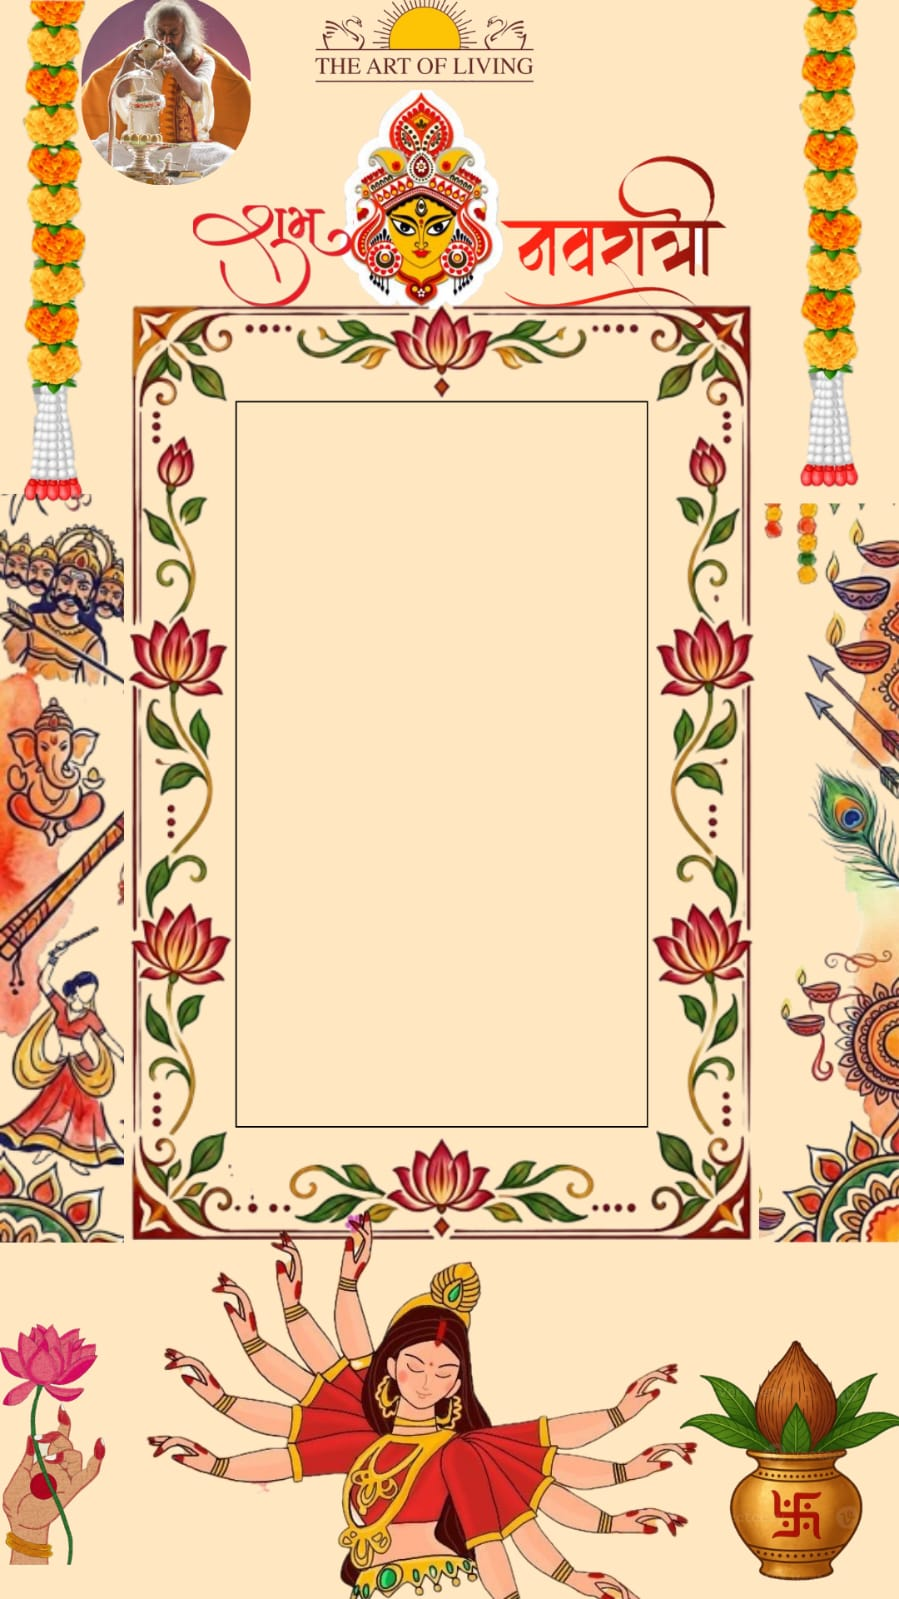
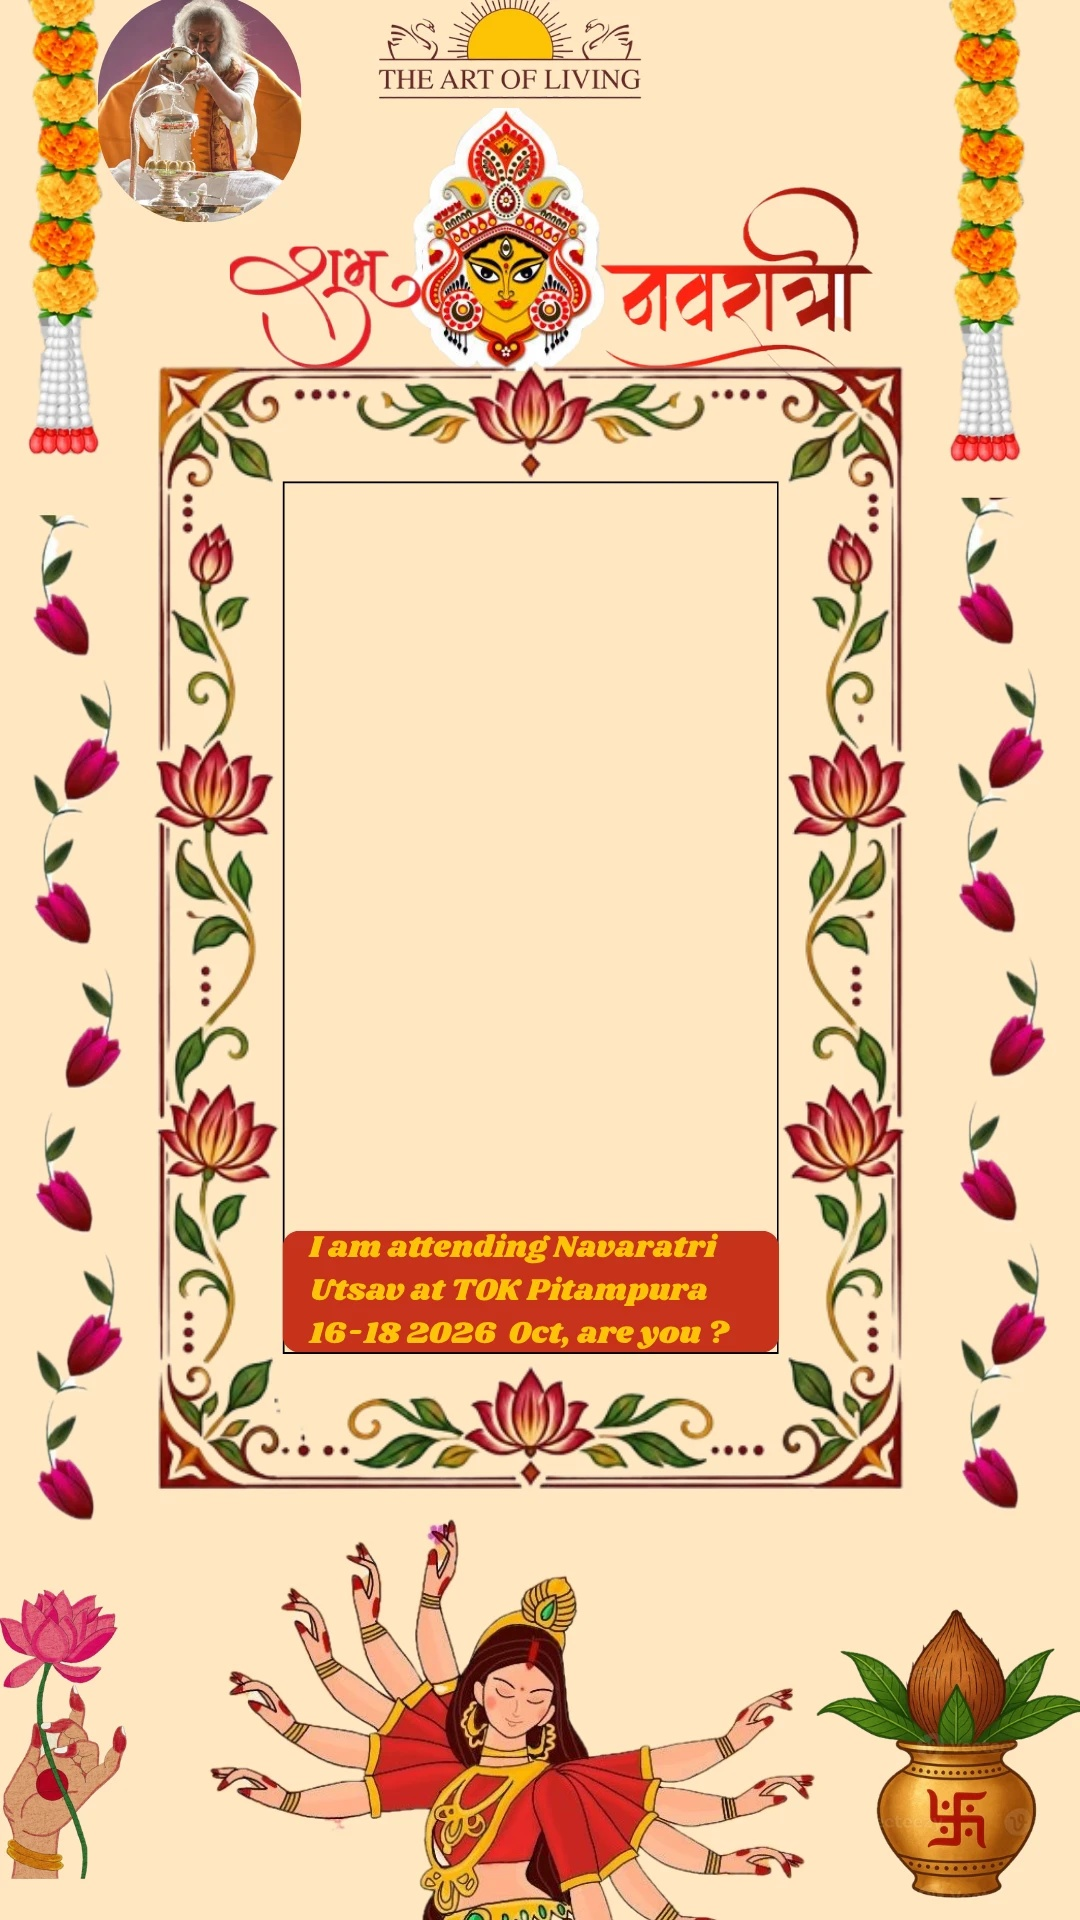
changes

diff --git a/index.html b/index.html
@@ -11,17 +11,17 @@
 html,body{margin:0;height:100%;background:var(--cream);color:var(--deep);font-family:Georgia,'Times New Roman',serif;overflow:hidden;touch-action:manipulation}
 button{font:inherit;cursor:pointer;border:0}
 
-/* The frame lives in a fixed 899x1599 coordinate space, scaled by JS to COVER the screen */
-#fit{position:fixed;left:50%;top:50%;width:899px;height:1599px;transform-origin:center;z-index:0}
+/* The frame lives in a fixed 1080x1920 coordinate space, scaled by JS to COVER the screen */
+#fit{position:fixed;left:50%;top:50%;width:1080px;height:1920px;transform-origin:center;z-index:0}
 #stage{position:absolute;inset:0;animation:enter 1.6s var(--ease) both}
 @keyframes enter{from{opacity:0;transform:scale(1.35);filter:blur(14px)}to{opacity:1;transform:none;filter:none}}
 #stage>img{position:absolute;inset:0;width:100%;height:100%;display:block}
 
 /* garlands: copies of the frame swaying from the top */
-.garland{position:absolute;top:0;height:504px;background-repeat:no-repeat;transform-origin:50% 0;animation:drop 1.8s .4s var(--ease) both,sway 4.5s 2.2s ease-in-out infinite}
-.garland.l{left:0;width:110px;background-image:url(garland-l.png)}
-.garland.r{left:790px;width:109px;background-image:url(garland-r.png)}
-@keyframes drop{from{transform:translateY(-520px)}}
+.garland{position:absolute;top:0;height:470px;background-repeat:no-repeat;transform-origin:50% 0;animation:drop 1.8s .4s var(--ease) both,sway 4.5s 2.2s ease-in-out infinite}
+.garland.l{left:0;width:112px;background-image:url(garland-l.png)}
+.garland.r{left:945px;width:135px;background-image:url(garland-r.png)}
+@keyframes drop{from{transform:translateY(-500px)}}
 @keyframes sway{0%,100%{transform:rotate(-1.6deg)}50%{transform:rotate(1.6deg)}}
 
 /* glows */
@@ -38,16 +38,18 @@ button{font:inherit;cursor:pointer;border:0}
 .sweep{position:absolute;inset:0;overflow:hidden;pointer-events:none}
 .sweep::after{content:"";position:absolute;top:-10%;left:-60%;width:35%;height:120%;background:linear-gradient(90deg,transparent,#fff9,transparent);transform:skewX(-18deg);animation:sweep 6s 2s infinite;mix-blend-mode:soft-light}
 @keyframes sweep{0%{left:-60%}35%,100%{left:140%}}
-.title-shimmer{position:absolute;left:190px;top:160px;width:540px;height:150px;overflow:hidden;pointer-events:none;
+.title-shimmer{position:absolute;left:230px;top:190px;width:640px;height:180px;overflow:hidden;pointer-events:none;
   -webkit-mask:linear-gradient(#000,#000);}
 .title-shimmer::after{content:"";position:absolute;inset:0;background:linear-gradient(100deg,transparent 40%,#fff8 50%,transparent 60%);background-size:250% 100%;animation:shim 3.5s 1.5s infinite;mix-blend-mode:overlay}
 @keyframes shim{from{background-position:120% 0}to{background-position:-120% 0}}
 
 /* photo window */
-.win{position:absolute;left:237px;top:403px;width:409px;height:723px;overflow:hidden;background:#1a0a08;animation:winin 1.2s .9s var(--ease) both}
+.win{position:absolute;left:284px;top:483px;width:493px;height:869px;overflow:hidden;background:#1a0a08;animation:winin 1.2s .9s var(--ease) both}
 @keyframes winin{from{clip-path:circle(0 at 50% 50%)}to{clip-path:circle(75% at 50% 50%)}}
 .win video,.win .shot{position:absolute;inset:0;width:100%;height:100%;object-fit:cover;display:block}
 .mirror{transform:scaleX(-1)}
+.banner{position:absolute;left:1px;top:748px;width:492px;height:121px;z-index:1;pointer-events:none;animation:bannerin 1s 1.6s var(--ease) both}
+@keyframes bannerin{from{opacity:0;transform:translateY(30px)}to{opacity:1;transform:none}}
 .shot{opacity:0;pointer-events:none}
 .shot.in{animation:shotin .9s var(--ease) both}
 @keyframes shotin{from{opacity:0;transform:scale(1.5) rotate(-6deg)}to{opacity:1;transform:none}}
@@ -102,28 +104,28 @@ button{font:inherit;cursor:pointer;border:0}
   <div class="garland l"></div><div class="garland r"></div>
 
   <!-- goddess, kalash, mukut glows -->
-  <div class="glow aura" style="left:250px;top:1230px;width:340px;height:340px"></div>
-  <div class="glow aura" style="left:700px;top:1360px;width:200px;height:200px;animation-delay:.8s"></div>
-  <div class="glow aura" style="left:340px;top:100px;width:170px;height:200px;animation-delay:1.4s"></div>
-  <!-- diyas -->
-  <div class="glow diya" style="left:815px;top:505px"></div>
-  <div class="glow diya" style="left:790px;top:610px;animation-delay:.4s"></div>
-  <div class="glow diya" style="left:760px;top:960px;animation-delay:.2s"></div>
-  <div class="glow diya" style="left:770px;top:1000px;animation-delay:.7s"></div>
-  <!-- twinkles on lotuses -->
-  <i class="spark" style="left:441px;top:340px"></i>
-  <i class="spark" style="left:441px;top:1190px;animation-delay:.8s"></i>
-  <i class="spark" style="left:178px;top:655px;animation-delay:1.6s"></i>
-  <i class="spark" style="left:705px;top:655px;animation-delay:.4s"></i>
-  <i class="spark" style="left:180px;top:945px;animation-delay:1.2s"></i>
-  <i class="spark" style="left:700px;top:945px;animation-delay:2s"></i>
-  <i class="spark" style="left:422px;top:230px;animation-delay:1s"></i>
+  <div class="glow aura" style="left:330px;top:1560px;width:420px;height:360px"></div>
+  <div class="glow aura" style="left:835px;top:1640px;width:245px;height:245px;animation-delay:.8s"></div>
+  <div class="glow aura" style="left:410px;top:110px;width:200px;height:250px;animation-delay:1.4s"></div>
+  <!-- twinkles on lotuses, mukut, tulips -->
+  <i class="spark" style="left:530px;top:410px"></i>
+  <i class="spark" style="left:530px;top:1425px;animation-delay:.8s"></i>
+  <i class="spark" style="left:215px;top:790px;animation-delay:1.6s"></i>
+  <i class="spark" style="left:848px;top:790px;animation-delay:.4s"></i>
+  <i class="spark" style="left:218px;top:1135px;animation-delay:1.2s"></i>
+  <i class="spark" style="left:845px;top:1135px;animation-delay:2s"></i>
+  <i class="spark" style="left:505px;top:245px;animation-delay:1s"></i>
+  <i class="spark" style="left:62px;top:625px;animation-delay:.6s"></i>
+  <i class="spark" style="left:1002px;top:612px;animation-delay:1.8s"></i>
+  <i class="spark" style="left:68px;top:1340px;animation-delay:1.4s"></i>
+  <i class="spark" style="left:1010px;top:1330px;animation-delay:.2s"></i>
   <div class="title-shimmer"></div>
   <div class="sweep"></div>
 
   <div class="win">
     <video id="video" autoplay playsinline muted></video>
     <img class="shot" id="shot" alt="">
+    <img class="banner" src="banner.png" alt="">
     <div id="count"></div>
     <div id="msg"></div>
     <div class="intro" id="intro">
@@ -151,7 +153,7 @@ button{font:inherit;cursor:pointer;border:0}
 
 <script>
 const $=id=>document.getElementById(id);
-const W=899,H=1599,R={x:237,y:403,w:409,h:723};
+const W=1080,H=1920,R={x:284,y:483,w:493,h:869},B={x:285,y:1231};
 let facing='user',stream=null,upload=null,lastBlob=null,url=null;
 
 // cover the whole screen with the frame
@@ -193,14 +195,14 @@ const countdown=()=>new Promise(res=>{let n=3;const c=$('count');
 
 $('shutter').onclick=async()=>{
   $('shutter').disabled=true;await countdown();$('shutter').disabled=false;
-  const frame=new Image();frame.src='frame.jpg';await frame.decode().catch(()=>{});
+  const frame=new Image();frame.src='frame.jpg';const ban=new Image();ban.src='banner.png';await Promise.all([frame.decode(),ban.decode()]).catch(()=>{});
   const c=document.createElement('canvas');c.width=W;c.height=H;const g=c.getContext('2d');
   g.fillStyle='#000';g.fillRect(R.x,R.y,R.w,R.h);
   const v=$('video'),src=upload||v,sw=upload?upload.naturalWidth:v.videoWidth,sh=upload?upload.naturalHeight:v.videoHeight;
   if(sw){const s=Math.max(R.w/sw,R.h/sh),dw=sw*s,dh=sh*s;g.save();g.beginPath();g.rect(R.x,R.y,R.w,R.h);g.clip();
     if(!upload&&facing==='user'){g.translate(R.x+R.w/2,0);g.scale(-1,1);g.drawImage(src,-dw/2,R.y+(R.h-dh)/2,dw,dh)}
     else g.drawImage(src,R.x+(R.w-dw)/2,R.y+(R.h-dh)/2,dw,dh);g.restore()}
-  g.save();g.beginPath();g.rect(0,0,W,H);g.rect(R.x,R.y,R.w,R.h);g.clip('evenodd');g.drawImage(frame,0,0,W,H);g.restore();
+  g.save();g.beginPath();g.rect(0,0,W,H);g.rect(R.x,R.y,R.w,R.h);g.clip('evenodd');g.drawImage(frame,0,0,W,H);g.restore();g.drawImage(ban,B.x,B.y);
   $('flash').classList.remove('go');void $('flash').offsetWidth;$('flash').classList.add('go');burst();
   c.toBlob(b=>{lastBlob=b;
     // freeze the taken photo inside the live, animated frame

diff --git a/README.md b/README.md
@@ -19,4 +19,4 @@ Or push to GitHub and import the repo at vercel.com/new (Framework: Other, no bu
 ## Files
 - `index.html` – the whole app (HTML/CSS/JS)
 - `frame.jpg` – original frame (used for the saved photo)
-- `frame-base.jpg`, `garland-l.png`, `garland-r.png` – frame split so the garlands can animate
+- `frame-base.jpg`, `garland-l.png`, `garland-r.png`, `banner.png` – frame split so the garlands animate and the message banner sits on top of the photo
